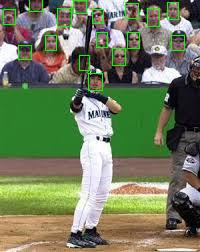
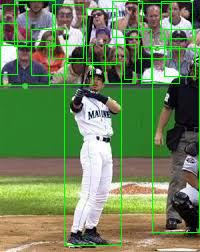
branch first commit

Changed region(s): [[0.0, 0.0, 1.0, 1.0]]

diff --git a/main.py b/main.py
@@ -6,41 +6,47 @@ inputPath = r".\img\test.jpeg"
 outputPath = r".\img\test_output.jpeg"
 
 # Rekognitionのクライアントを作成
+# IAMユーザーに割り当てたポリシー
+# AmazonRekognitionFullAccess
+# profile名は環境編巣にAWS_DEFAULT_PROFILE, AWS_PROFILEとして定義した。
 #session = Session(profile_name='XXX_profileName_XXX', region_name='ap-northeast-1')
 #client = session.client('rekognition')
 client = boto3.client('rekognition', region_name='ap-northeast-1')
 
 # 画像ファイルを引数としてdetect_facesを実行
 with open(inputPath,'rb') as image:
-    response = client.detect_faces(Image={'Bytes':image.read()},Attributes=['ALL'])
-
-# 顔が認識されない場合は処理終了
-if len(response['FaceDetails'])==0:
-    print('顔は認識されませんでした。')
+    #response = client.detect_faces(Image={'Bytes':image.read()},Attributes=['ALL'])
+    # MaxLabels=20はなくても良い
+    response = client.detect_labels(Image={'Bytes': image.read()}, MaxLabels=20)
+# 物体が認識されない場合は処理終了
+if len(response['Labels'])==0:
+    print('物体は認識されませんでした。')
 else:
     # 入力された画像ファイルを元に、矩形セット用の画像ファイルを作成
     img = Image.open(inputPath)
     imgWidth,imgHeight = img.size
     draw = ImageDraw.Draw(img)
 
-    # 認識された顔の数分、矩形セット処理を行う
-    for faceDetail in response['FaceDetails']:
+    # 認識された物体の数分、矩形セット処理を行う
+    for labels in response['Labels']:
+        print("Label: " + labels["Name"])
+        print("Confidence: " + str(labels["Confidence"]))
+        for instance in labels["Instances"]:
+            # BoundingBoxから物体の位置・サイズ情報を取得
+            box = instance['BoundingBox']
+            left = imgWidth * box['Left']
+            top = imgHeight * box['Top']
+            width = imgWidth * box['Width']
+            height = imgHeight * box['Height']
 
-        # BoundingBoxから顔の位置・サイズ情報を取得
-        box = faceDetail['BoundingBox']
-        left = imgWidth * box['Left']
-        top = imgHeight * box['Top']
-        width = imgWidth * box['Width']
-        height = imgHeight * box['Height']
+            # 矩形の位置・サイズ情報をセット
+            points = (
+                (left,top),
+                (left + width,top + height)
+            )
 
-        # 矩形の位置・サイズ情報をセット
-        points = (
-            (left,top),
-            (left + width,top + height)
-        )
-
-        # 顔を矩形で囲む
-        draw.rectangle(points,outline='lime')
+            # 物体を矩形で囲む
+            draw.rectangle(points,outline='lime')
 
     # 画像ファイルを保存
     img.save(outputPath)
